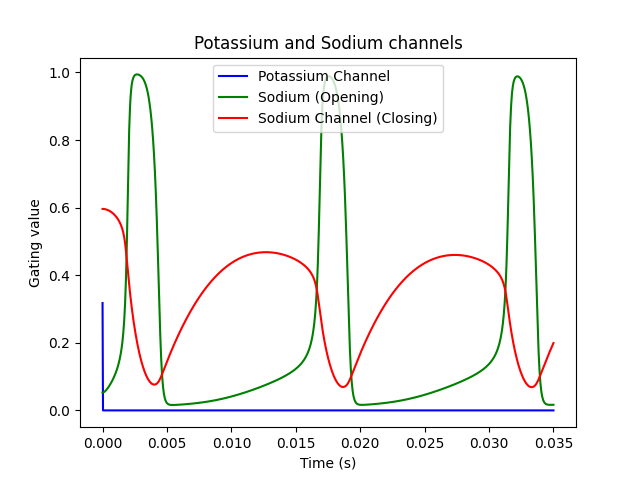
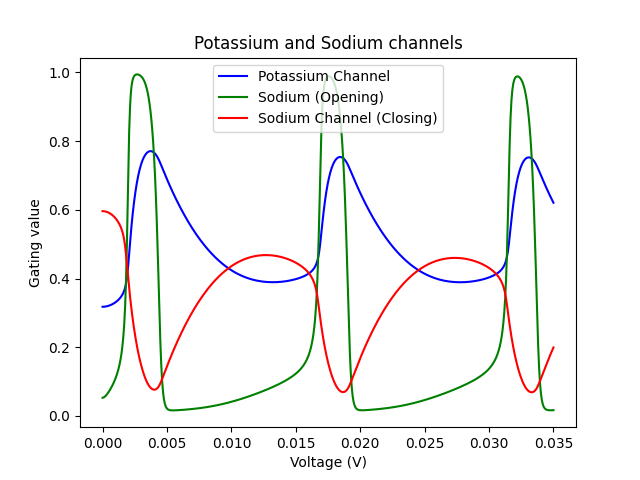
added limit cycles graph

diff --git a/HH model.py b/HH model.py
@@ -93,30 +93,30 @@ class HodgkinHuxley():
     #         return self.i_inj
     #     return 0.0
 
-    def frequency(self,v):
-        rec_spikes = 0               # record spike times
-        self.firing_rate = []
-        self.iinj = np.linspace(0, 10., 1000)
+    # def frequency(self,v):
+    #     rec_spikes = 0               # record spike times
+    #     self.firing_rate = []
+    #     self.iinj = np.linspace(0, 10., 1000)
 
-        for n in range(len(self.iinj)):
-            for it in range(0,len(self.t)-1):
+    #     for n in range(len(self.iinj)):
+    #         for it in range(0,len(self.t)-1):
 
-                if v[it] >= self.vthresh:
-                    rec_spikes +=1
-                    v[it+1] = self.vrest
-            self.firing_rate.append(rec_spikes/self.tmax*milli)
+    #             if v[it] >= self.vthresh:
+    #                 rec_spikes +=1
+    #                 v[it+1] = self.vrest
+    #         self.firing_rate.append(rec_spikes/self.tmax*milli)
 
 
     def derivatives(self,y,t):
         der = np.zeros(4)
         
         v= y[0]
-        self.n = y[1]
-        self.m = y[2]
-        self.h = y[3]
+        n = y[1]
+        m = y[2]
+        h = y[3]
 
-        gNa = self.g_na * np.power(self.m, 3.0) * self.h
-        gK = self.g_k * np.power(self.n, 4.0)
+        gNa = self.g_na * np.power(m, 3.0) * h
+        gK = self.g_k * np.power(n, 4.0)
         gL = self.g_l
 
         i_na = gNa * (v- self.vna )
@@ -125,9 +125,9 @@ class HodgkinHuxley():
 
 
         der[0] = (self.i_inj - i_na - i_k - i_l) / self.c_m   # dv/dt
-        der[1] = (self.alpha_n(v) * (1 - self.n)) - (self.beta_n(v) * self.n)    # dn/dt
-        der[2] = (self.alpha_m(v) * (1 - self.m)) - (self.beta_m(v) * self.m)    # dm/dt
-        der[3] = (self.alpha_h(v) * (1 - self.h)) - (self.beta_h(v) * self.h)    # dh/dt
+        der[1] = (self.alpha_n(v) * (1 - n)) - (self.beta_n(v) * n)    # dn/dt
+        der[2] = (self.alpha_m(v) * (1 - m)) - (self.beta_m(v) * m)    # dm/dt
+        der[3] = (self.alpha_h(v) * (1 - h)) - (self.beta_h(v) * h)    # dh/dt
         
         return der
 
@@ -138,11 +138,15 @@ class HodgkinHuxley():
         y = np.array([v, self.n_inf(v), self.m_inf(v), self.h_inf(v)], dtype= 'float64')
 
         sol = odeint(self.derivatives, y, t)    # Solve ODE
+        v = sol[:,0]
+        n = sol[:,1]
+        m = sol[:,2]
+        h = sol[:,3]
 
-        self.frequency(sol[:,1])
+        # self.frequency(sol[:,1])
 
         ax = plt.subplot()
-        ax.plot(t*milli, sol[:, 0]*milli)
+        ax.plot(t*milli, v*milli)
         ax.set_xlabel('Time (s)')
         ax.set_ylabel('Membrane potential (v)')
         ax.set_title('Neuron potential')
@@ -151,34 +155,36 @@ class HodgkinHuxley():
         plt.show()
 
         ax = plt.subplot()
-        ax.plot(t*milli, sol[:,1], 'b', label='Potassium Channel')
-        ax.plot(t*milli, sol[:,2], 'g', label='Sodium (Opening)')
-        ax.plot(t*milli, sol[:,3], 'r', label='Sodium Channel (Closing)')
+        ax.plot(t*milli, n, 'b', label='Potassium Channel')
+        ax.plot(t*milli, m, 'g', label='Sodium (Opening)')
+        ax.plot(t*milli, h, 'r', label='Sodium Channel (Closing)')
         ax.set_ylabel('Gating value')
-        ax.set_xlabel('Time (s)')
+        ax.set_xlabel('Voltage (V)')
         ax.set_title('Potassium and Sodium channels')
         plt.legend()
         plt.savefig('Potassium and Sodium channels (time)')
         plt.show()
 
+
+        # Trajectories with limit cycles
         ax = plt.subplot()
-        ax.plot(sol[:, 0]*milli, sol[:,1], 'b', label='Potassium Channel')
-        ax.plot(sol[:, 0]*milli, sol[:,2], 'g', label='Sodium (Opening)')
-        ax.plot(sol[:, 0]*milli, sol[:,3], 'r', label='Sodium Channel (Closing)')
+        ax.plot(sol[:, 0]*milli, n, 'b', label='Vm - n')
+        ax.plot(sol[:, 0]*milli, m, 'g', label='Vm - m')
+        ax.plot(sol[:, 0]*milli, h, 'r', label='Vm - h')
         ax.set_ylabel('Gating value')
         ax.set_xlabel('Voltage (V)')
-        ax.set_title('Potassium and Sodium channels')
+        ax.set_title('Limit cycles')
         plt.legend()
-        plt.savefig('Potassium and Sodium channels (voltage)')
+        plt.savefig('Limit Cycles')
         plt.show()
 
-        ax = plt.subplot()
-        ax.plot(self.iinj, self.firing_rate)
-        ax.set_xlabel("Input Current(A)")
-        ax.set_ylabel("Firing rate(spikes/s)")
-        ax.set_title('f-I Curve')
-        plt.savefig('f-I Curve')
-        plt.show()
+        # ax = plt.subplot()
+        # ax.plot(self.iinj, self.firing_rate)
+        # ax.set_xlabel("Input Current(A)")
+        # ax.set_ylabel("Firing rate(spikes/s)")
+        # ax.set_title('f-I Curve')
+        # plt.savefig('f-I Curve')
+        # plt.show()
 
 if __name__ == '__main__':
     runner = HodgkinHuxley()
